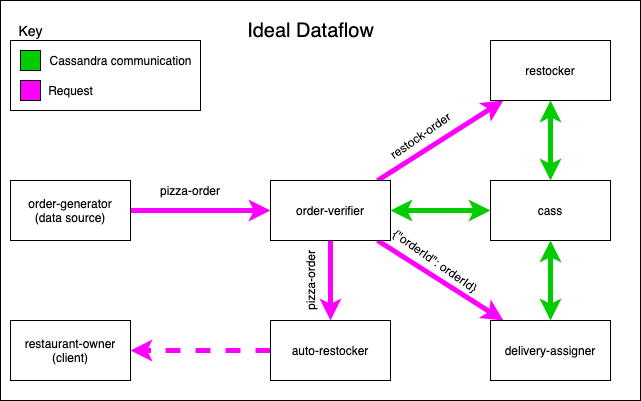
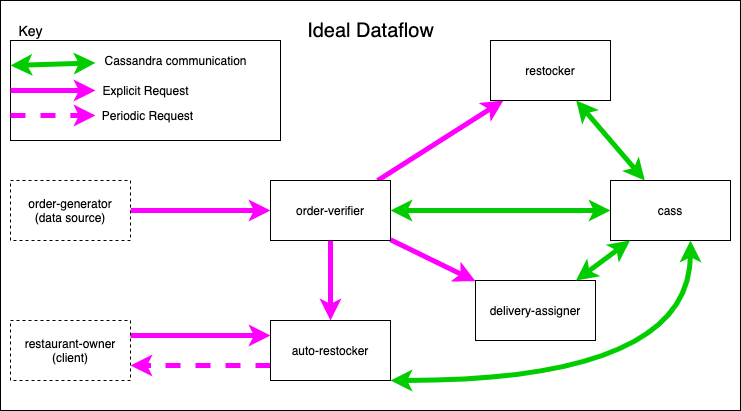
modified dataflow and added description

diff --git a/Design/Dataflow/README.md b/Design/Dataflow/README.md
@@ -1,0 +1,47 @@
+# Dataflow
+
+Due to the nature of this project, where clients can specify their desired workflow out of a subset of components, the dataflow is expected to change.   
+
+## Ideal Dataflow
+![Ideal_Dataflow](Ideal_Dataflow.png)
+<sub>Figure 1.0</sub>
+
+Pictured above in Figure 1.0 is the ideal dataflow for the project when all components are deployed for a specified workflow. In this workflow two components are essential, the order-verifier and cass. Components restocker, delivery-assigner, and auto-restocker can be removed with no significant impact on the dataflow.
+
+### Dataflow Walk-through
+
+The order-generator sends a pizza-order json to the order-verifier. The order-verifier recieves the pizza-order and verifies that the json is valid. Then it attempts to create the order.
+
+If the store does not have the requested ingredients in the required quantites to satify the pizza-order and the restocker component is present in the current workflow, the order-verifer sends a restock-order to the restocker component. If the restocker component is not present in the current workflow the order is rejected.
+
+The restocker, upon recieving the restock-order, will communicate with cass to increase the stock for the given items in the database. After doing so, it will return a success message to the caller.
+
+If order creation for the pizza-order was successful and the delivery-assigner component is in the current workflow, then the order-verifier forwards the pizza-order to the delivery-assigner.
+
+The delivery-assigner, upon recieving the order will communicate with cass and a google api to assign the best delivery-entity to the given order. After doing so it will return the pizza-order with additional fields estimated time and delivery-entity to the caller.
+
+After calling restocker and delivery-assigner (if present in the workflow), the order-verifier will forward the pizza-order to auto-restocker, if auto-restocker is in the current workflow.
+
+auto-restocker, upon recieving an order will store the indgridient usage information to send a periodic precidtion to the restaurant-owner. 
+
+The restaurant-owner can also make an explicit call to the auto-restocker for a prediction.
+
+The order-verifier, after contacting the restocker, delivery-assigner, and auto-restocker (if they are in the current workflow), will send a success message back to the order-generator.
+
+![Possible_Dataflow](Possible_Dataflow.png)
+<sub>Figure 2.0</sub>
+
+Pictured above in Figure 1.0 is the other possible dataflow for the project when all components save the order-verifier are deployed for a specified workflow. In this workflow one components are essential, cass. Components restocker, delivery-assigner, and auto-restocker can be removed with no significant impact on the dataflow.
+
+### Dataflow walk-through
+The order-generator sends a pizza-order json to the delivery-assigner and auto-restocker components, if they are present in the workflow.
+
+The delivery-assigner, upon recieving the order will communicate with cass and a google api to assign the best delivery-entity to the given order. After doing so it will return the pizza-order with additional fields estimated time and delivery-entity to the caller.
+
+auto-restocker, upon recieving an order will store the indgridient usage information to send a periodic precidtion to the restaurant-owner. 
+
+The restaurant-owner can also make an explicit call to the auto-restocker for a prediction.
+
+The restock-generator sends a restock-order json to the restocker, if it is present in the workflow.
+
+The restocker, upon recieving the restock-order, will communicate with cass to increase the stock for the given items in the database. After doing so, it will return a success message to the caller.
